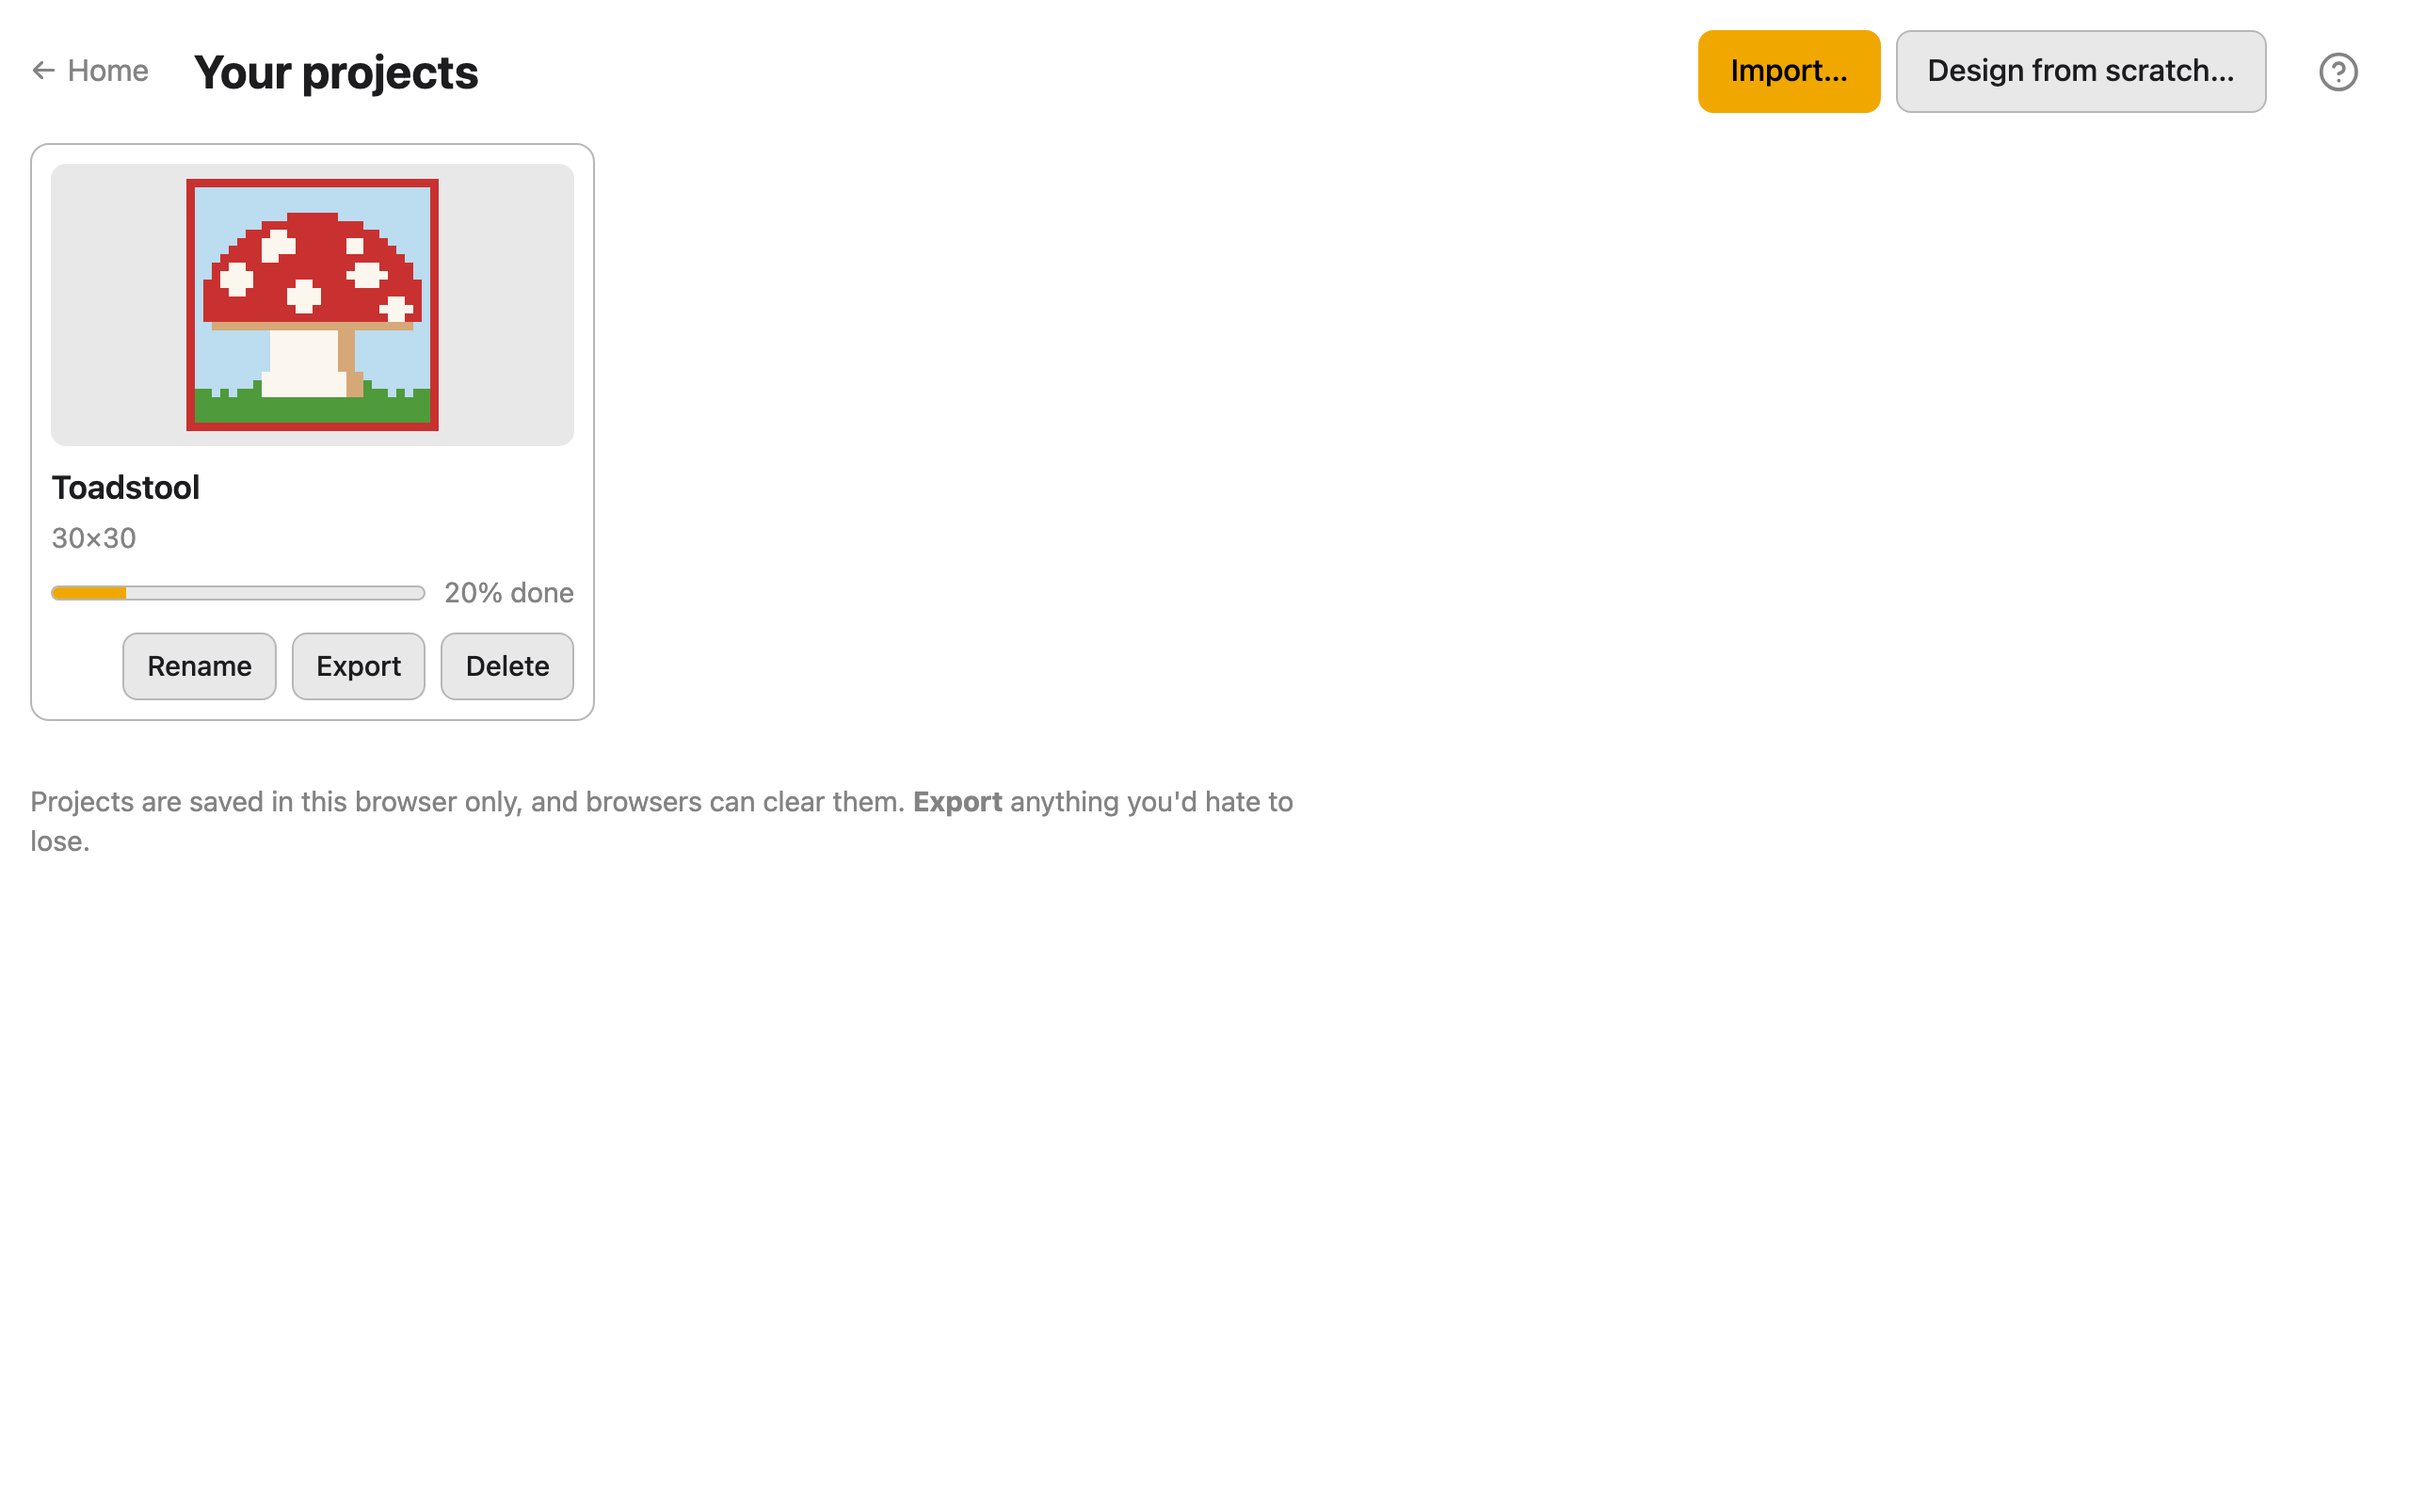
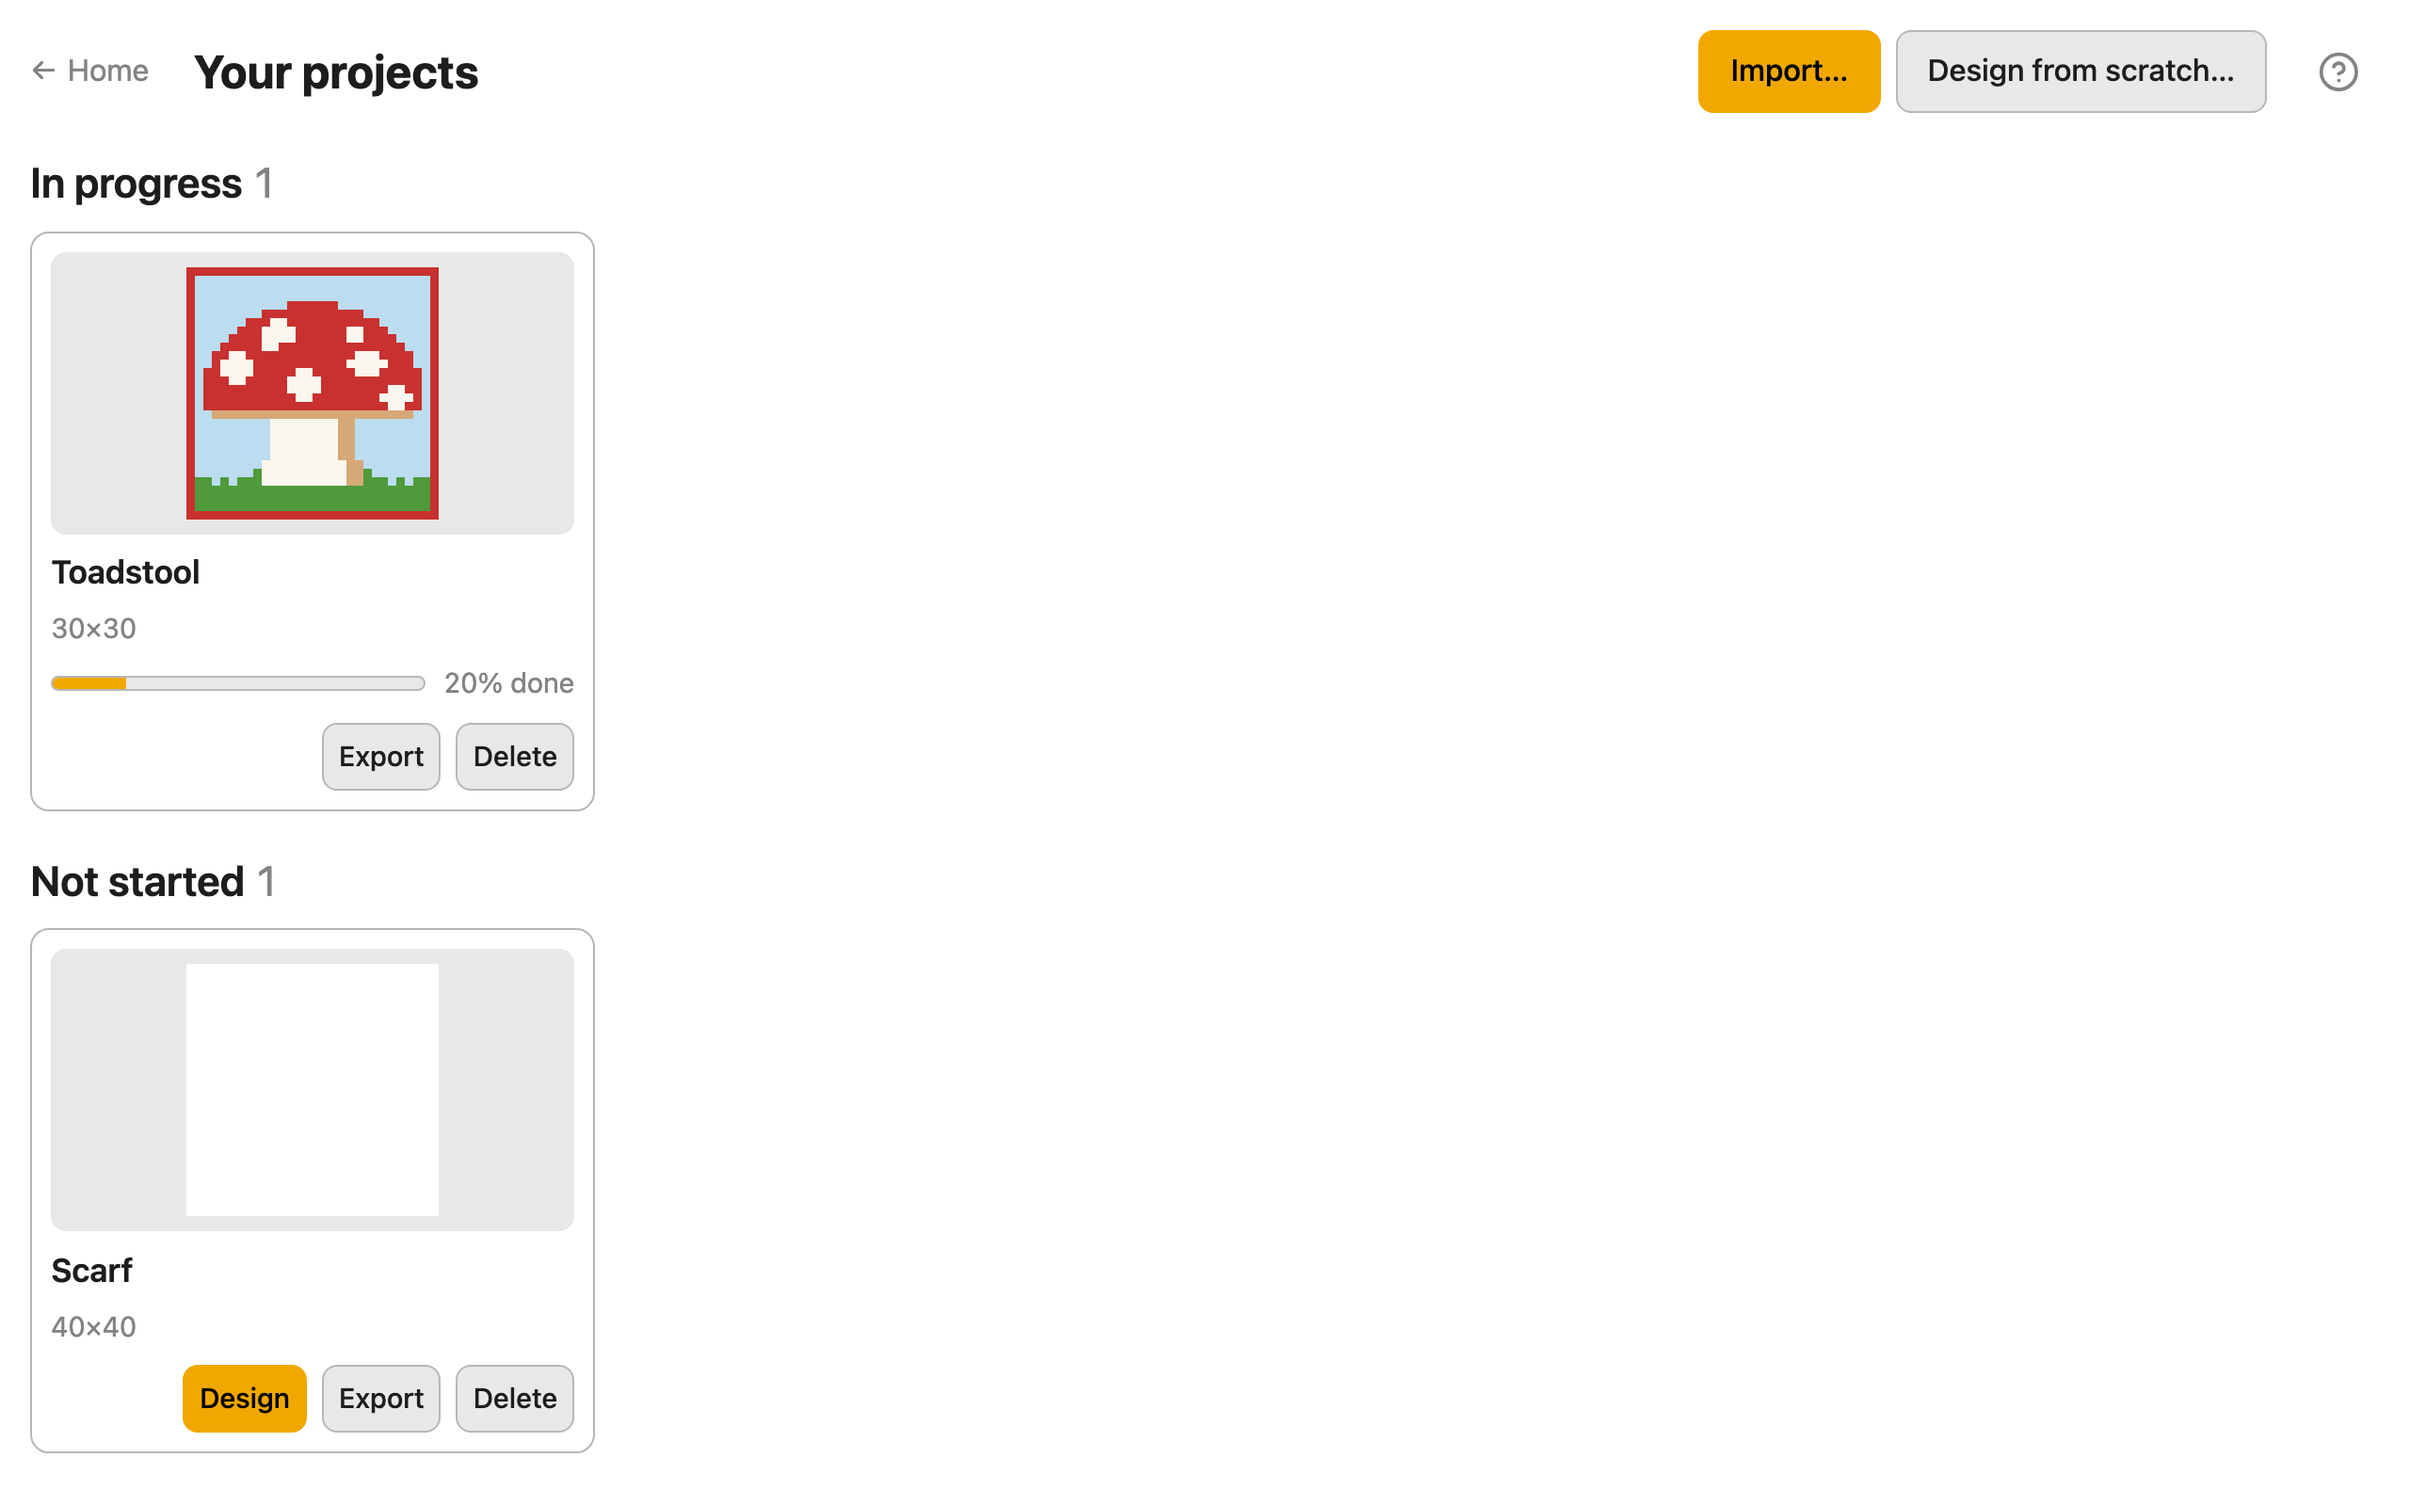
Docs: the Library's sections, Design button and click-to-rename in the guide, screenshot, area note and rules

diff --git a/docs/dev/areas/library.md b/docs/dev/areas/library.md
@@ -57,6 +57,23 @@ Newest last, as they were built.
   like every screen, while Import and Design filled the window. Now `.screen.library`
   has no cap and the card grid adds columns. The home screen and Settings keep 72rem:
   their tiles and form would only spread out.
+- <a id="sections"></a>**In progress, Not started and Finished** (`ui/screens/Library.tsx`):
+  the Library lists its cards in those three sections, in that order (what you're making
+  first, finished last), each newest first, and leaves out an empty one. A project is
+  in progress when `hasProgress` says so, the same test that opens it in Work, so part of
+  a row counts even at "0% done"; finished is `isComplete` (every live row done). The
+  status is a summary field, `work_status`, so the Library still opens no archives. It
+  was added without a DB version bump: `rebuildMissingSummaries` also rebuilds any
+  summary that lacks it, keeping its thumbnail rather than decoding the photo again.
+  - **Not started cards have a Design button** (a link to `#/design/<id>`), and no
+    progress bar, which could only say 0%.
+  - **No Rename button: the name is the button.** Pressing it turns it into the rename
+    field; a pencil shows beside it on hover or focus, and always on a touch screen.
+    For that the name can't be inside the card's link, so the link holds only the
+    thumbnail, is named "Open “<name>”", and is stretched over the whole card (its
+    `::after`); the name and the buttons sit above it (`z-index: 1`). A click on the size
+    or the bar still opens the project. e2e specs open a card with
+    `getByRole('link', { name: /^Open / })`, since a not-started card has two links.
 - <a id="card-buttons"></a>**A card's buttons stay inside it**: at a card's narrowest
   (`--card-w`, 15rem, about a 530 px window) Rename, Export and Delete needed ~237 px of
   the 220 px inside, and the right-aligned row stuck out past the card's left edge. On a

diff --git a/docs/guide/library.md b/docs/guide/library.md
@@ -5,7 +5,18 @@ browser. Open it from **Library** on the home screen, or **← Library** at the 
 Design and Work stages. Each project shows a small picture of it, its name, its size
 in stitches, and a bar for how much of it you've worked.
 
-<img src="media/library.png" alt="The Library: one project card, Toadstool, 30×30, with its progress bar, and Rename, Export and Delete under it" width="700">
+<img src="media/library.png" alt="The Library: Toadstool under In progress, 20% done, with Export and Delete; Scarf under Not started, with Design, Export and Delete" width="700">
+
+## In progress, Not started and Finished
+
+Projects are listed in three groups, newest first in each:
+
+- **In progress**: you've worked some of it, even part of one row.
+- **Not started**: nothing worked yet. These have a **Design** button, which opens the
+  project in the Design stage, and no progress bar.
+- **Finished**: every row is done.
+
+A group with nothing in it isn't shown.
 
 ## Open a project
 
@@ -14,9 +25,9 @@ otherwise where you last had it, Design or Work.
 
 ## Rename a project
 
-Press **Rename** under its card, type the new name, then press **Save** (or `Enter`).
-**Cancel** (or `Escape`) keeps the old name. You can also rename a pattern from the Work
-stage's **Options**.
+Click or tap the project's name on its card, type the new name, then press **Save** (or
+`Enter`). **Cancel** (or `Escape`) keeps the old name. You can also rename a pattern from
+the Work stage's **Options**.
 
 ## Export a project
 

diff --git a/docs/dev/rules.md b/docs/dev/rules.md
@@ -202,6 +202,12 @@ break without noticing.
 - <a id="zero-pyodide"></a>**The Work and Design stages make zero Pyodide requests.** Keeping Pyodide out of the
   Work stage is what makes the app usable on a phone, and Design has no use for it
   either since `edit.py` moved to TypeScript. Treat any regression here as a bug.
+- <a id="summary-fields"></a>**A new Library summary field must be rebuilt for summaries saved without it.**
+  Summaries live in IndexedDB, so a browser that saved them before the field was added
+  still has them, typed as if the field were there. Make `idsMissingSummaries` count a
+  summary lacking it as stale (as it does for `work_status`); `rebuildMissingSummaries`
+  then recomputes it from the archive on open, keeping the thumbnail. A DB version bump
+  is only needed for a new store or index.
 - <a id="help-links"></a>**Link to the guide only through `src/app/help.ts`.** Renaming or moving a guide page,
   or a heading the app links to, breaks a link nobody sees until a user taps it;
   `tests/docs.test.ts` checks every entry in `HELP`, and only entries there.
